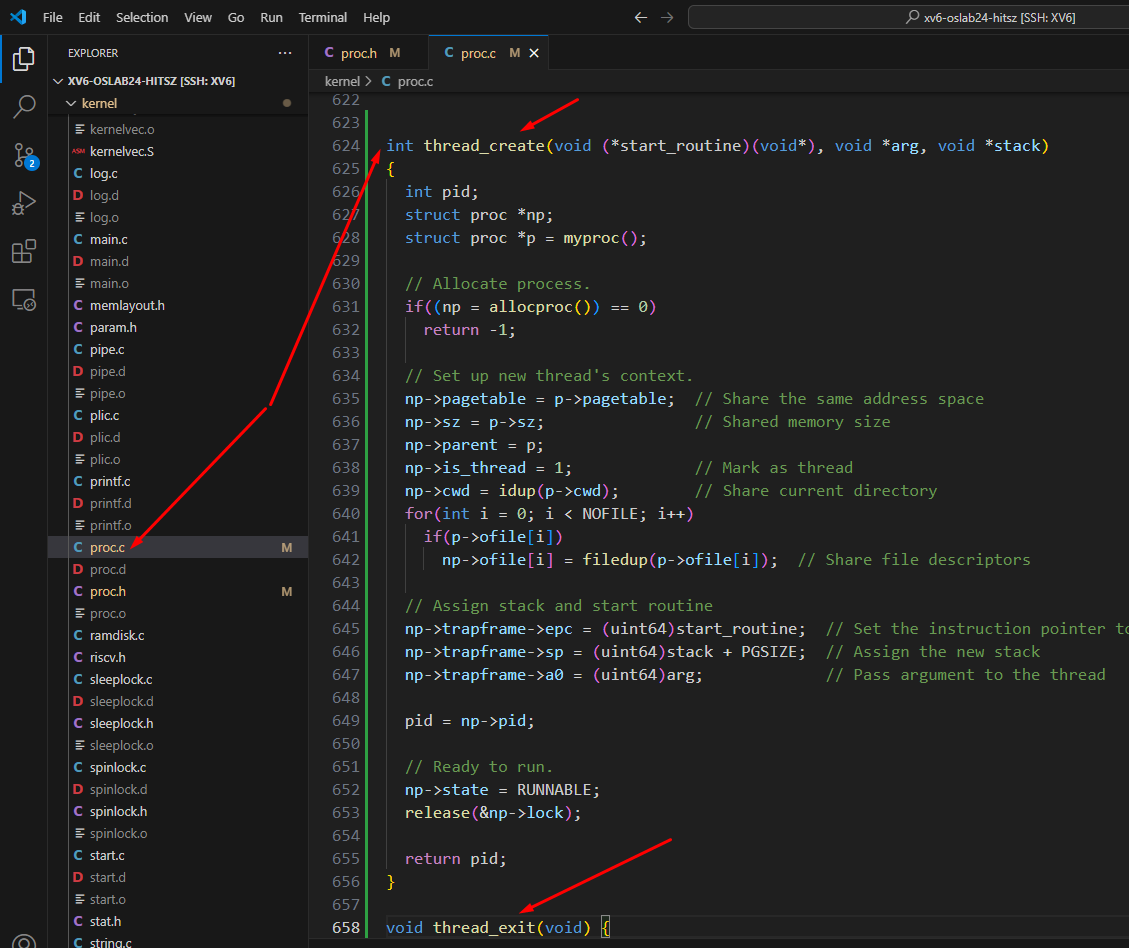
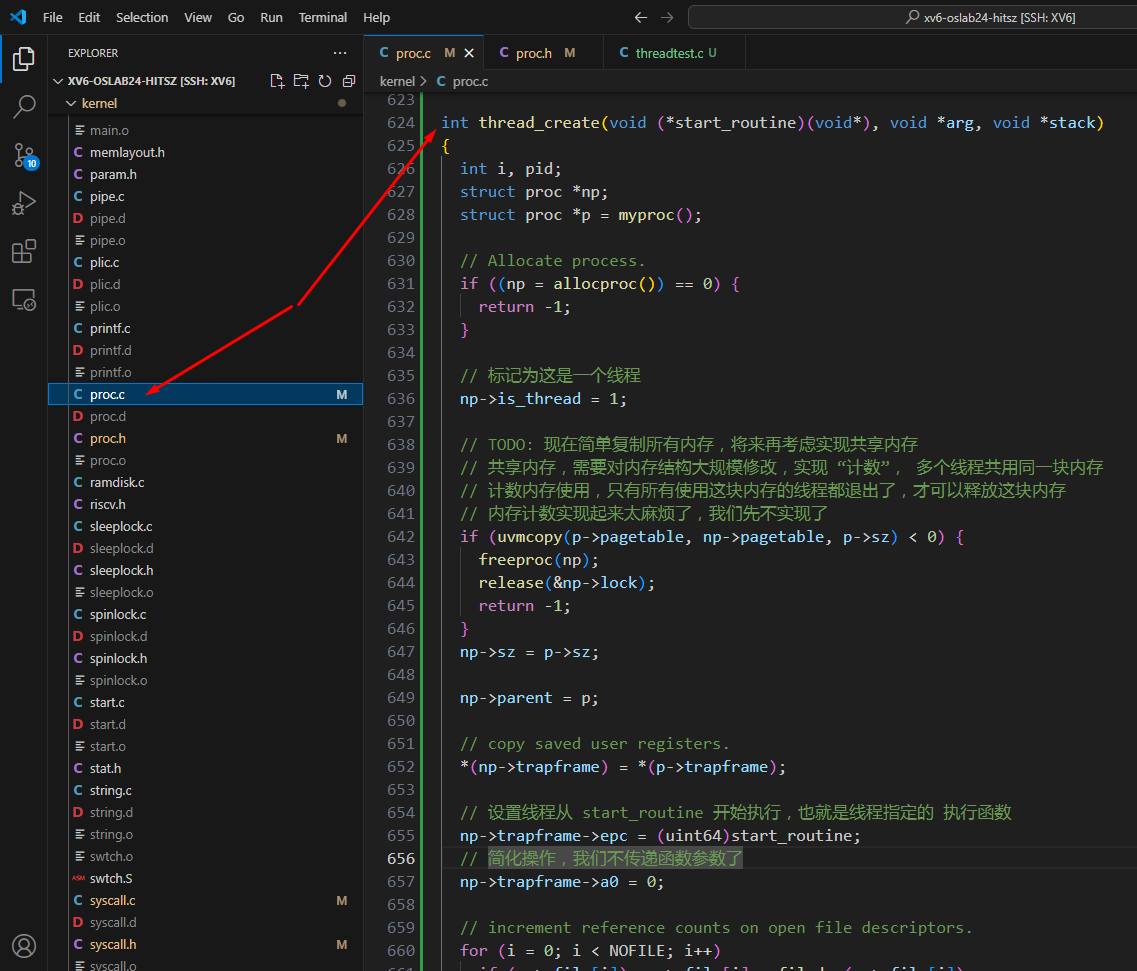
update chapter08

diff --git a/Chapter08/Chapter08.md b/Chapter08/Chapter08.md
@@ -45,7 +45,7 @@ int is_thread;               // Flag to indicate whether this is a thread or pro
 
 
 
-[点击这里查看--代码修改](https://github.com/hitsz-ids/tutorial/commit/f1bf3caa8dada609c714b331dcdd2cc4abb486ee)
+[点击这里查看--代码修改](https://github.com/hitsz-ids/tutorial/commit/91f1d6429a1a686dad672b1e862e5a4666dfd2d2)
 
 ```
 // 线程创建
@@ -59,9 +59,9 @@ int  thread_join(int pid)
 
 ```
 
-[点击这里查看--原始代码](https://github.com/hitsz-ids/tutorial/blob/63696fbb703cc847f22f5125140497c3dd4cd395/Chapter08/XV6/kernel/proc.c)
+[点击这里查看--原始代码](https://github.com/hitsz-ids/tutorial/blob/a44f6570c99d97a9e1fb12d50d7750a465678962/Chapter08/XV6/kernel/proc.c)
 
-[点击这里查看--修改后的代码](https://github.com/hitsz-ids/tutorial/blob/76c5864a3ee111812690ce3328cbebe23558b0cb/Chapter08/XV6/kernel/proc.c)
+[点击这里查看--修改后的代码](https://github.com/hitsz-ids/tutorial/blob/91f1d6429a1a686dad672b1e862e5a4666dfd2d2/Chapter08/XV6/kernel/proc.c)
 
 
 
@@ -248,8 +248,14 @@ int  thread_join(int pid)
 
 
 
+我们写一个 **user/threadtest.c** 程序用来测试多线程的功能是否正确。
+
+**注意**：这是一个用户态的程序，所以我们需要**把它放在  user 目录下**，参考之前的教程  [XV6与Unix实用程序](../Chapter03/Chapter03.md)
 
 
 
+ [点击查看：user/threadtest.c 程序](XV6/user/threadtest.c)
 
- 
+
+
+六、程序
